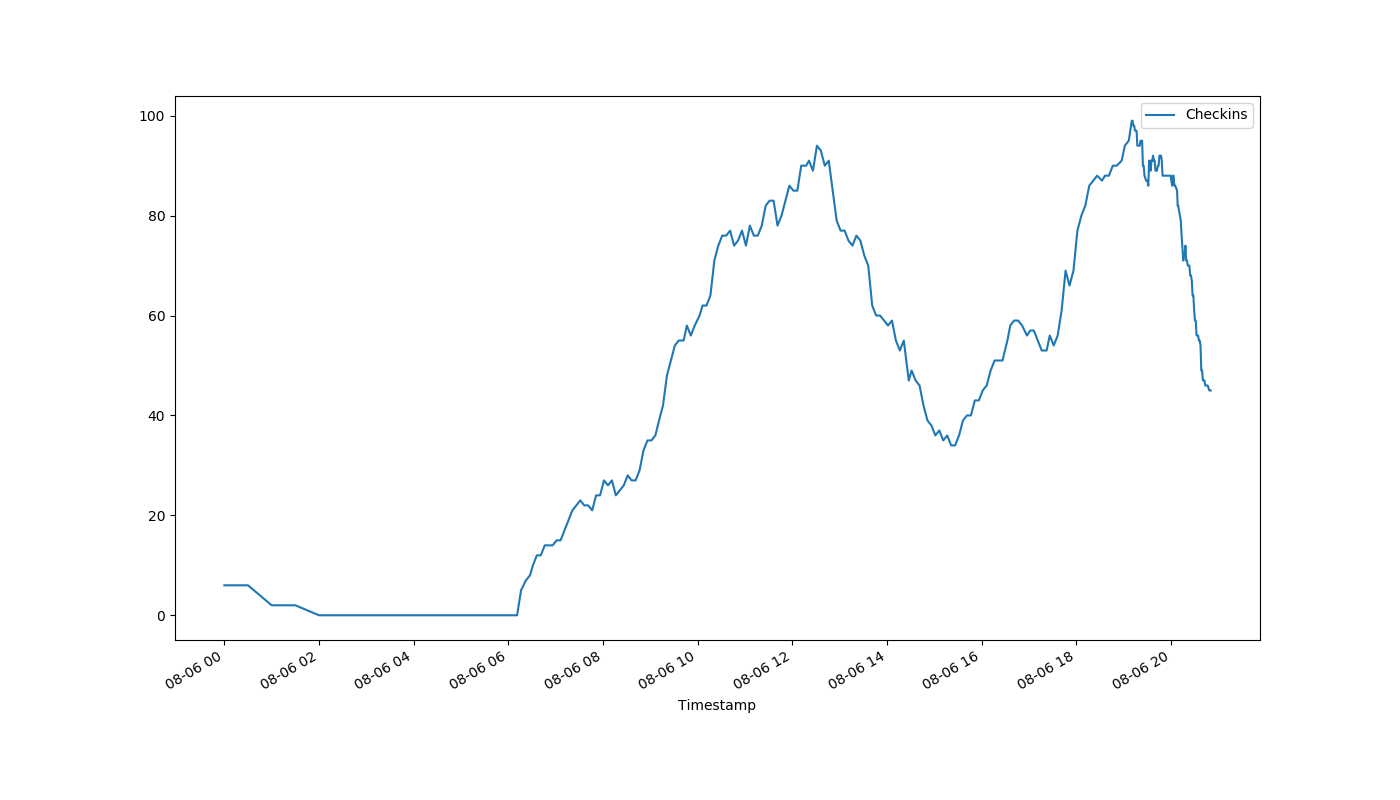
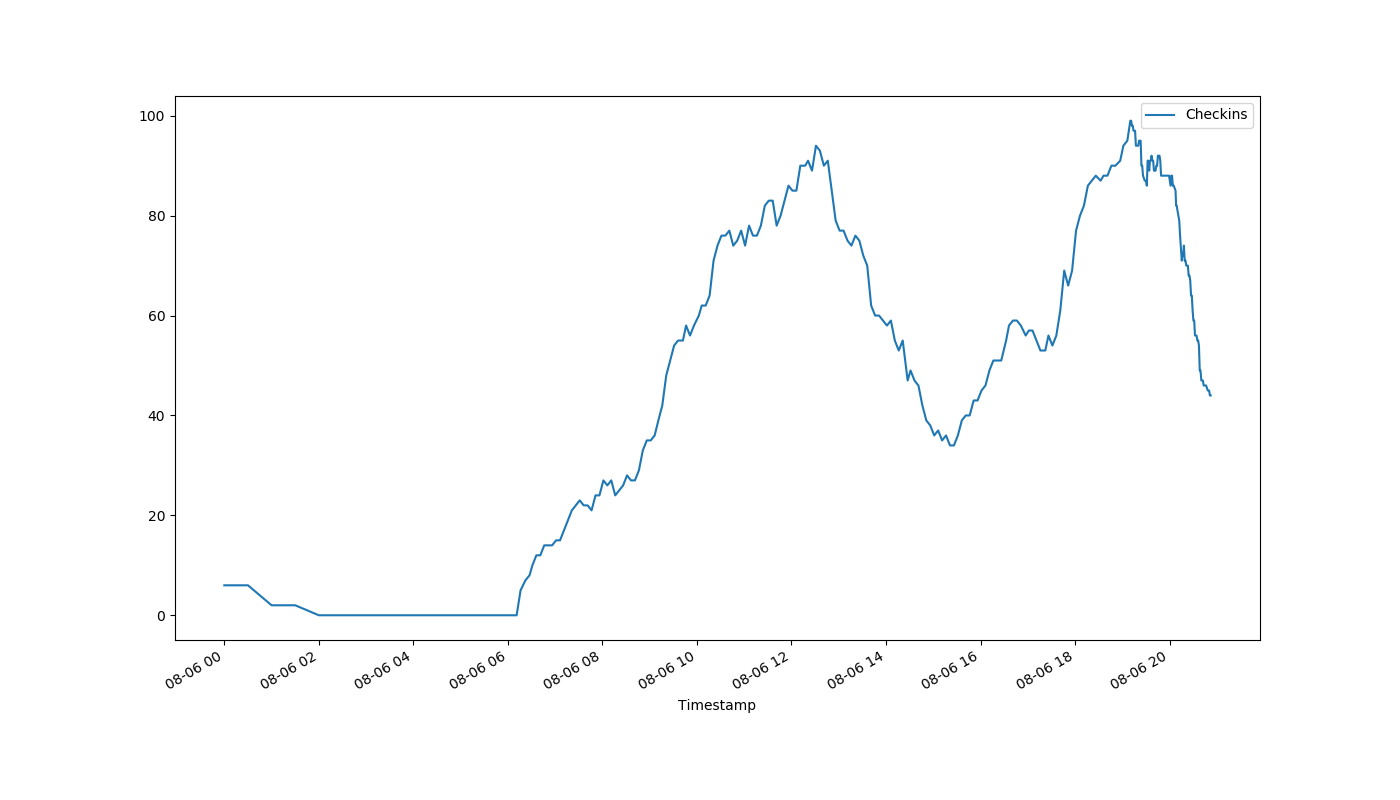
auto-Aug-06-20:52:31

diff --git a/index.html b/index.html
@@ -1,1 +1,1 @@
-<!DOCTYPE html><html><head><meta http-equiv="refresh" content="15"><link rel='stylesheet' href='holmcurrent.css'></head><body><p id='count'>45</p><div id='graph-wrap'><img id='graph' src='holmgraph-Aug-06.png'></div><p id='updated'>Last updated 20:50:19 / 20:50:08</p></body></html>
+<!DOCTYPE html><html><head><meta http-equiv="refresh" content="15"><link rel='stylesheet' href='holmcurrent.css'></head><body><p id='count'>44</p><div id='graph-wrap'><img id='graph' src='holmgraph-Aug-06.png'></div><p id='updated'>Last updated 20:52:19 / 20:52:08</p></body></html>
